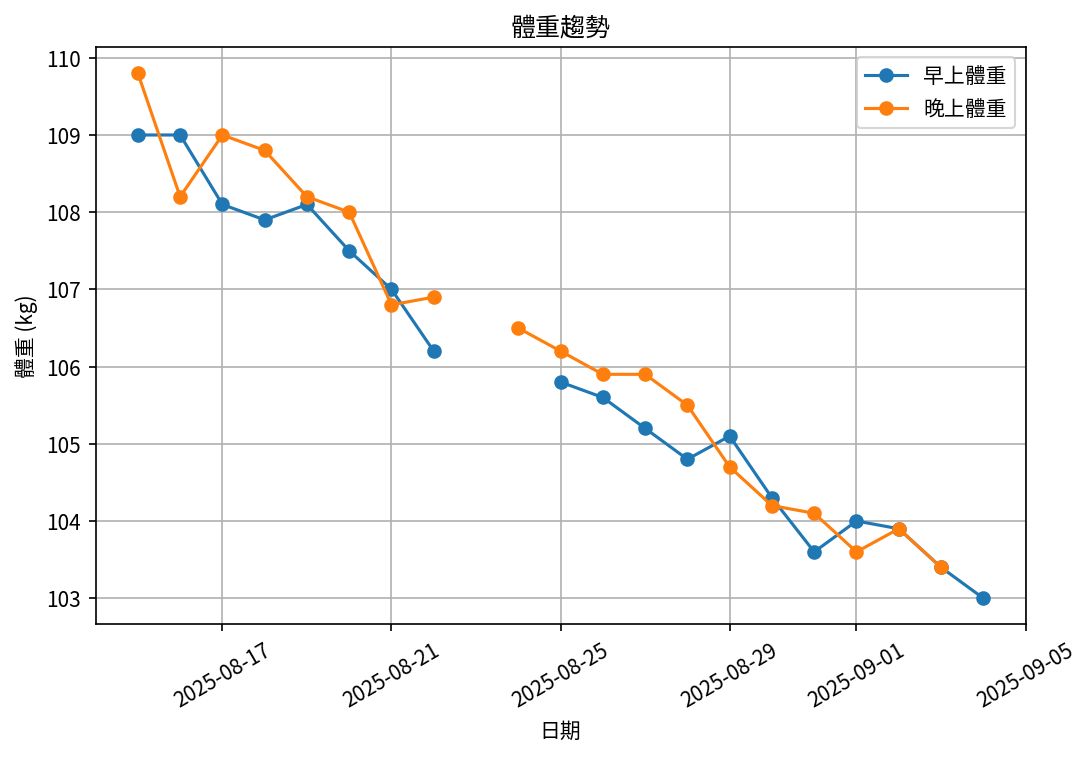
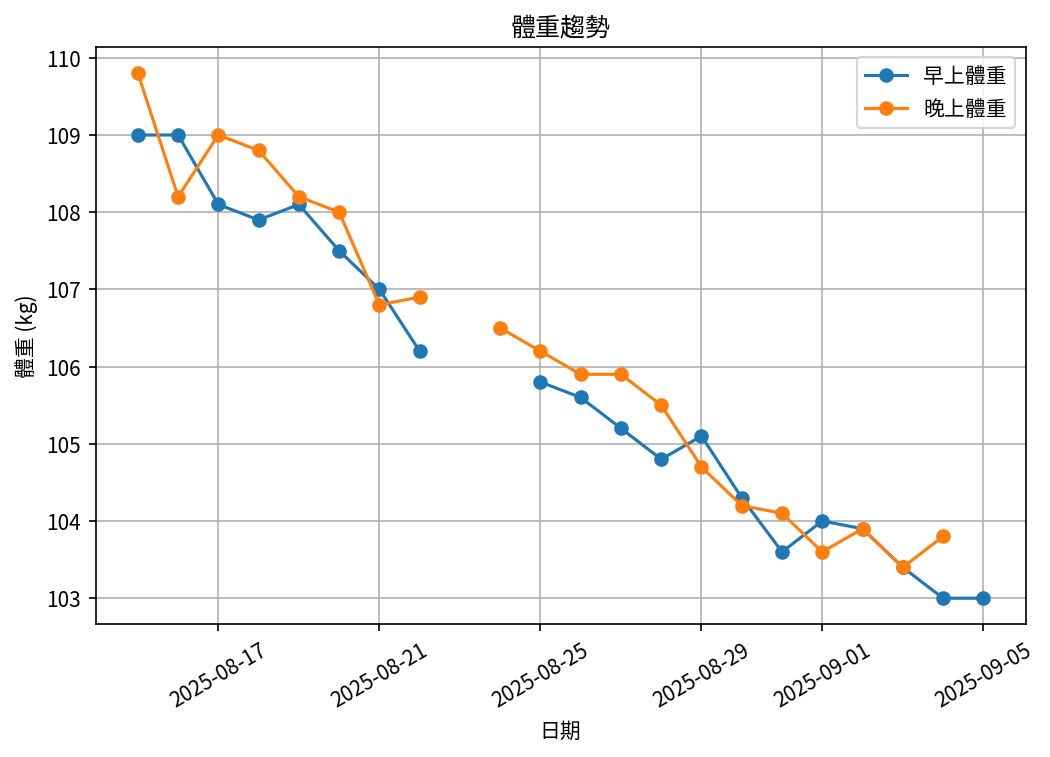
update valeus

diff --git a/reports/summary/overall_summary_report.md b/reports/summary/overall_summary_report.md
@@ -1,7 +1,7 @@
 # 📊 減重總結報告
 
-**總期間：2025/08/15 ～ 2025/09/04**  
-**追蹤期間：21 天 (3 週)**  
+**總期間：2025/08/15 ～ 2025/09/05**  
+**追蹤期間：22 天 (4 週)**  
 
 ---
 
@@ -13,13 +13,13 @@
 |:-----------|:------------|:------------|:-----------|:-----------|
 | 08/15 (週五) | 109.0       | 109.8       | nan        | 29.0       |
 | ...        | ...         | ...         | ...        | ...        |
-| 08/29 (週五) | 105.1       | 104.7       | 30.2       | 28.1       |
 | 08/30 (週六) | 104.3       | 104.2       | 30.2       | 27.9       |
 | 08/31 (週日) | 103.6       | 104.1       | 30.1       | 29.4       |
 | 09/01 (週一) | 104.0       | 103.6       | 30.3       | 28.0       |
 | 09/02 (週二) | 103.9       | 103.9       | 29.7       | 27.7       |
 | 09/03 (週三) | 103.4       | 103.4       | 29.9       | 28.4       |
-| 09/04 (週四) | 103.0       | nan         | 29.6       | nan        |
+| 09/04 (週四) | 103.0       | 103.8       | 29.6       | 29.5       |
+| 09/05 (週五) | 103.0       | nan         | 30.0       | nan        |
 
 ---
 
@@ -32,24 +32,23 @@
 
 ## 📌 總體統計
 
-- **體重（AM）**：109.0 → 103.0 kg  (**-6.0 kg**), 總平均 105.9 kg  
-- **體重（PM）**：109.8 → 103.4 kg  (**-6.4 kg**), 總平均 106.3 kg  
-- **體重（AM+PM 平均）**：106.1 kg  
+- **體重（AM）**：109.0 → 103.0 kg  (**-6.0 kg**), 總平均 105.7 kg  
+- **體重（PM）**：109.8 → 103.8 kg  (**-6.0 kg**), 總平均 106.2 kg  
+- **體重（AM+PM 平均）**：105.9 kg  
 
-- **體脂（AM）**：30.3% → 29.6%  (**-0.7%**), 總平均 30.2%  
-- **體脂（PM）**：29.0% → 28.4%  (**-0.6%**), 總平均 28.3%  
+- **體脂（AM）**：30.3% → 30.0%  (**-0.3%**), 總平均 30.2%  
+- **體脂（PM）**：29.0% → 29.5%  (**0.5%**), 總平均 28.3%  
 - **體脂（AM+PM 平均）**：29.3%  
 
-- **追蹤天數**：21 天  
-- 平均每週體重變化（AM）：-2.0 kg/週  
-- 平均每週體重變化（PM）：-2.1 kg/週
+- **追蹤天數**：22 天  
+- 平均每週體重變化（AM）：-1.5 kg/週  
+- 平均每週體重變化（PM）：-1.5 kg/週
 
 ---
 
 ## 🎯 重點成果
 
-✅ **體重減少**：在 21 天內減重 6.0 kg（早上測量）  
-✅ **體脂下降**：體脂率降低 0.6%（晚上測量）  
+✅ **體重減少**：在 22 天內減重 6.0 kg（早上測量）  
 
 ## ✅ 持續建議
 - 維持 **高蛋白 (每公斤 1.6–2.0 g)** 與 **每週 2–3 次阻力訓練**  

diff --git a/reports/2025-CW03/2025-CW03_weekly_report.md b/reports/2025-CW03/2025-CW03_weekly_report.md
@@ -14,7 +14,7 @@
 | 09/01 (週一) |       104   |       103.6 |       30.3 |       28   |
 | 09/02 (週二) |       103.9 |       103.9 |       29.7 |       27.7 |
 | 09/03 (週三) |       103.4 |       103.4 |       29.9 |       28.4 |
-| 09/04 (週四) |       103   |       nan   |       29.6 |      nan   |
+| 09/04 (週四) |       103   |       103.8 |       29.6 |       29.5 |
 
 ---
 
@@ -28,12 +28,12 @@
 ## 📌 本週統計
 
 - 體重（AM）：105.1 → 103.0 kg  (**-2.1 kg**), 週平均 103.9 kg  
-- 體重（PM）：104.7 → 103.4 kg  (**-1.3 kg**), 週平均 104.0 kg  
+- 體重（PM）：104.7 → 103.8 kg  (**-0.9 kg**), 週平均 104.0 kg  
 - 體重（AM+PM 平均）：103.9 kg  
 
 - 體脂（AM）：30.2% → 29.6%  (**-0.6%**), 週平均 30.0%  
-- 體脂（PM）：28.1% → 28.4%  (**0.3%**), 週平均 28.2%  
-- 體脂（AM+PM 平均）：29.1%  
+- 體脂（PM）：28.1% → 29.5%  (**1.4%**), 週平均 28.4%  
+- 體脂（AM+PM 平均）：29.2%  
 
 - 紀錄天數：7 天
 
